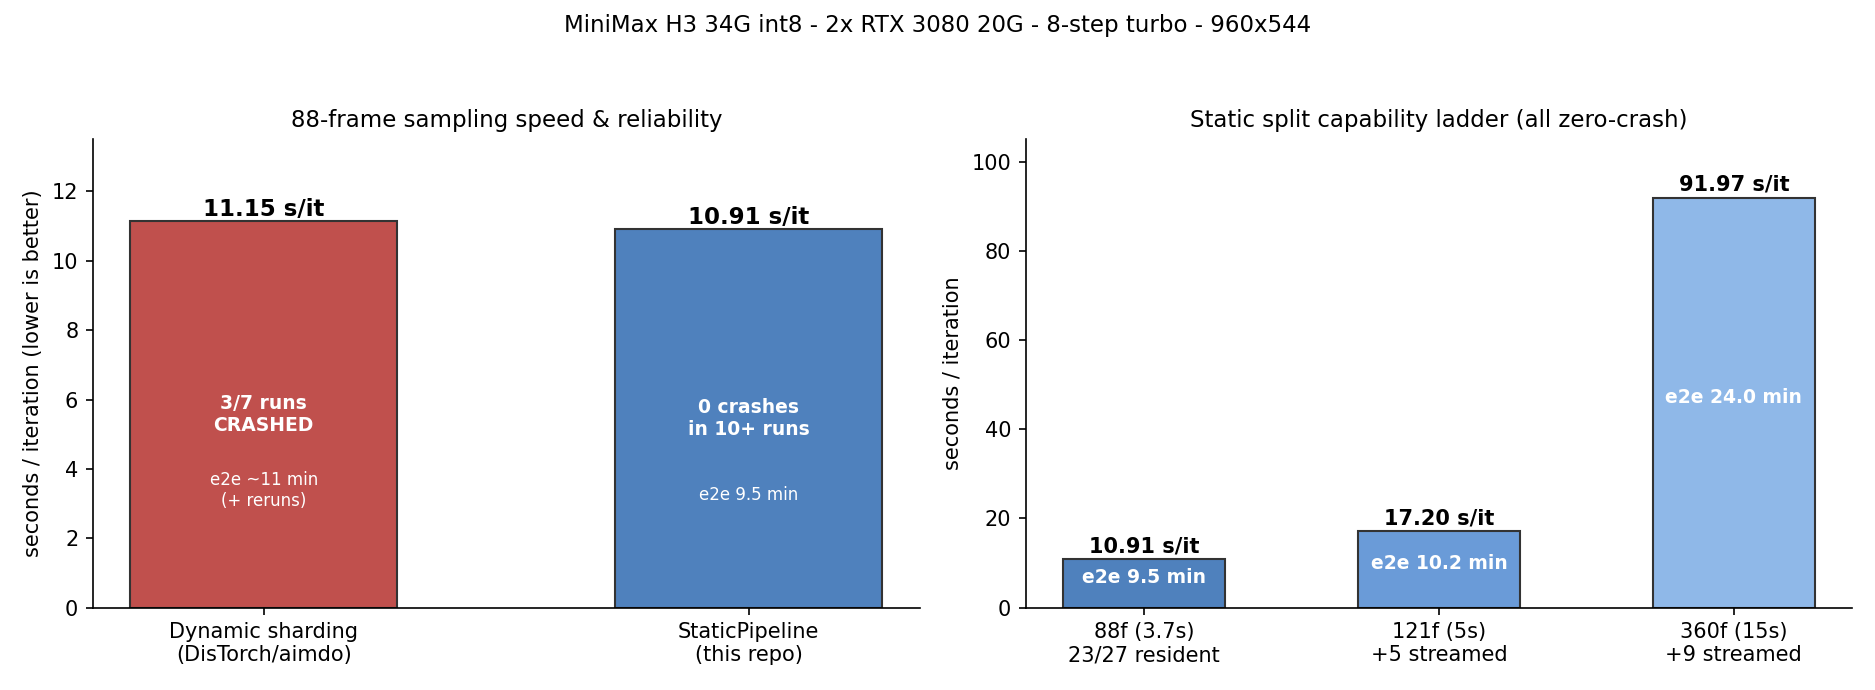
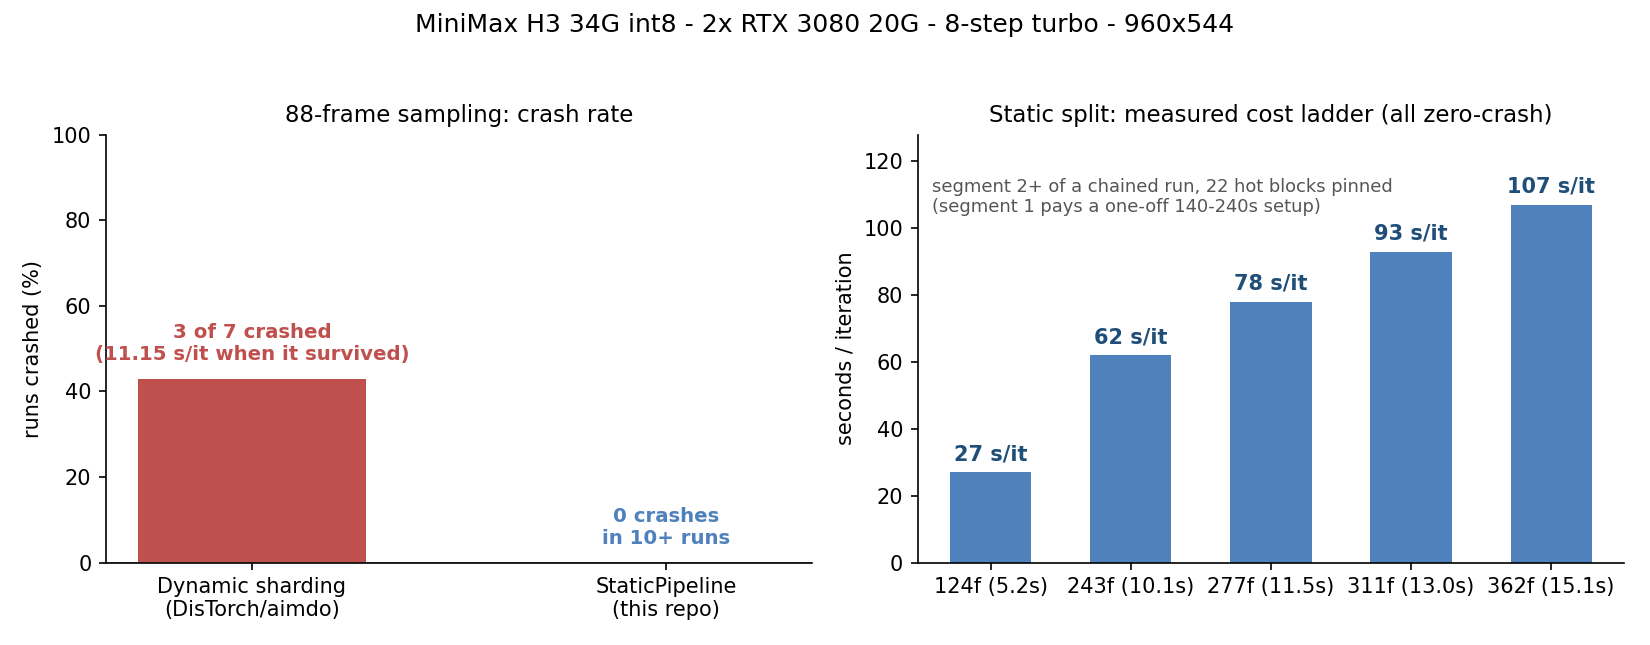
docs: replace stale benchmarks with current measured numbers
The profile table, results table and benchmark chart all carried numbers
measured before the two required env vars (MGPU_CPU_THRESHOLD_PERCENT=999,
PYTORCH_CUDA_ALLOC_CONF=expandable_segments:True) plus a LoRA cache-thrash
bug, and were superseded by later runs.

- profile table: short -> 73f 6.80 s/it; mid -> 124f ~27 / 243f ~62;
  long -> 277f ~78 / 311f ~93 / 362f ~107 s/it (chained segment 2+)
- segment tiers: 124/243/277/311/362f all pass with the current dev0
  budget + 22 pinned blocks; retire the old 226f/124f ceiling note
- add pinned-hot-block and LRU model cache notes (~5.7 min/clip saved)
- redraw assets/benchmark.png (crash rate + current cost ladder)

diff --git a/README.md b/README.md
@@ -36,15 +36,20 @@ The killer detail: `vbar_free_memory` in the aimdo ledger started returning **ne
 
 Weights don't grow with video length — activations do (~linear in tokens). For longer clips the node automatically switches profiles:
 
-| Profile | Frames | Layout | Measured |
+| Profile | Frames | Layout | Measured (segment 2+ of a chained run) |
 |---|---|---|---|
-| `short` | ≤88f | all-resident 23/27 | **10.91 s/it**, 8 steps, end-to-end 9.5 min |
-| `mid` | 110–259f | 22/23 resident + 5 CPU-streamed | **~27 s/it** at 124f (217–222 s sampling) |
-| `long` | ≥260f | 19/21 resident + 9 CPU-streamed | **~92 s/it** at 360f, 24 min for a 15 s clip |
+| `short` | ≤88f | all-resident 23/27 | 73f: **6.80 s/it** (0.093 s/it·frame, zero streamed blocks) |
+| `mid` | 110–259f | 22/23 resident + 5 CPU-streamed | 124f: **~27 s/it** · 243f: **~62 s/it** |
+| `long` | ≥260f | 19/21 resident + 9 CPU-streamed | 277f: **~78** · 311f: **~93** · 362f: **~107 s/it** |
 
 Measured cost curve on a directed chained run (steps=8 + turbo, 960×544, segment 2+):
 124f ≈ 27 s/it · 243f ≈ 62 · 277f ≈ 78 · 311f ≈ 93 · 362f ≈ 107. Segment 1 carries a one-off
 ~140–240 s cost (Triton compile + first LoRA move + static placement).
+
+Two knobs matter for long clips: **22 hot blocks stay pinned resident per card** (the rest can
+stream), and the loaded model survives across prompts (LRU model cache) — the second and later
+submissions on the same instance skip reload, Triton recompile and the first LoRA move, saving
+**~5.7 min per clip** at the same tier.
 
 (2× RTX 3080 20 GB, MiniMax H3 34 GB int8, 8-step turbo. CPU-streamed blocks are lossless packed-int8 copies; overhead ~1 s/step.)
 
@@ -106,7 +111,7 @@ UNETLoader → StaticPipelineSplit(frames=<your frame count>) → ... → sample
 ## Notes & limits
 
 - Requires the ComfyUI fork runtime this was developed against (DynamicVRAM/aimdo builds; tested on torch 2.10.0+cu130). Stock ComfyUI works too — the overrides simply no-op gracefully — but the target use case is packed-quantized DiTs that crash under dynamic sharding.
-- **Measured segment ceilings** (steps=1 probes for the roof, full runs to confirm): **single shot, no continuity pin: 226 frames** (243f OOM'd 5/5 probe runs); **chained segments: 124 frames** (validated end-to-end with 11×124f). A chained segment costs ~384 MiB more than the same length as a standalone shot — "the standalone probe passed" does not imply the chain will.
+- **Measured segment tiers** (current dev0 budget + 22 pinned blocks): chained segments passed every tier we tested — **124 / 243 / 277 / 311 / 362 frames**, validated end-to-end. Notes quoting a 226f single-shot / 124f chained ceiling came from the pre-pin dev0 budget and no longer apply. A chained segment still costs ~384 MiB more than the same length as a standalone shot — "the standalone probe passed" does not imply the chain will.
 - SageAttention allocates a **513.97 MiB fp32 temporary over the full k** (∝ token count, hence ∝ frames) — the largest single OOM trigger on long segments; intrinsic, unrelated to LoRA/streaming/VAE.
 - Three ways to free VRAM that we measured and **killed**: (a) rebalancing weights across cards — streamed blocks hop back onto their home card during their own forward, so the peak is conserved; (b) moving the audio VAE to cuda:1 — aimdo's vbar is only registered on device 0; (c) moving the text encoder to GPU — CUDA-context-level crash.
 - Keep the VAEs on the GPU: giving the video VAE ~3 GiB of headroom cut decode from 137 s → 46 s.

diff --git a/README_CN.md b/README_CN.md
@@ -36,15 +36,19 @@
 
 权重不随时长涨，激活值线性涨。节点按帧数自动切档：
 
-| 档位 | 帧数 | 布局 | 实测 |
+| 档位 | 帧数 | 布局 | 实测（导演台接力链 段 2+） |
 |---|---|---|---|
-| `short` | ≤88f | 23/27 全驻留 | **10.91 s/it**，8 步，端到端 9.5 分钟 |
-| `mid` | 110–259f | 22/23 驻留 + 5 块 CPU 流式 | 124f **~27 s/it**（采样 217–222 秒） |
-| `long` | ≥260f | 19/21 驻留 + 9 块 CPU 流式 | 360f **~92 s/it**，15 秒片 24 分钟 |
+| `short` | ≤88f | 23/27 全驻留 | 73f：**6.80 s/it**（0.093 s/it·帧，0 块流式） |
+| `mid` | 110–259f | 22/23 驻留 + 5 块 CPU 流式 | 124f：**~27 s/it** · 243f：**~62 s/it** |
+| `long` | ≥260f | 19/21 驻留 + 9 块 CPU 流式 | 277f：**~78** · 311f：**~93** · 362f：**~107 s/it** |
 
 导演台接力链实测成本曲线（steps=8 + turbo，960×544，段 2+）：
 124f ≈ 27 s/it · 243f ≈ 62 · 277f ≈ 78 · 311f ≈ 93 · 362f ≈ 107。段 1 有一次性的
 ~140–240 秒成本（Triton 编译 + LoRA 首次搬运 + 静态切分落位）。
+
+长片有两个关键旋钮：**每卡钉住 22 个热块常驻**（其余可流式），以及模型跨 prompt 常驻
+（LRU 模型缓存）——同一实例第二条起免去重载、Triton 重编译与 LoRA 首次搬运，
+**同档位每条省 ~5.7 分钟**。
 
 （CPU 流式块是无损的 int8 打包拷贝，开销 ~1 秒/步。）
 
@@ -102,7 +106,7 @@ UNETLoader → StaticPipelineSplit(frames=实际帧数) → ... → 采样器
 
 ## 边界
 
-- **段长天花板（实测）**：单段无 continuity pin 上限 **226f**（243f 连续 5 次探针全 OOM）；**链式接力上限 124f**（11×124f 已端到端验证）。链式一段比同长度单段多占 ~384 MiB——“单段探针通过”不等于链上能过。
+- **段长档位（实测）**：现行 dev0 预算 + 22 个钉住热块下，链式接力的 **124 / 243 / 277 / 311 / 362 帧逐档全过**（端到端验证）。此前"单段 226f / 链上 124f 天花板"的说法来自旧 dev0 预算，**已作废**。链式一段仍比同长度单段多占 ~384 MiB——"单段探针通过"不等于链上能过。
 - SageAttention 会对整条 k 做一次 **513.97 MiB 的 fp32 临时拷贝**（∝ token 数 = 帧数）——长段最大的单笔 OOM 触发点，属固有成本，与 LoRA/流式块/VAE 无关。
 - 三条腾显存的路实测**全部判死**：① 卡间挪权重（流式块在自己那次 forward 期间会临时落回原卡，峰值守恒）② 音频 VAE 搬 cuda:1（aimdo 的 vbar 只登记 device 0）③ TE 搬上 GPU（CUDA context 级崩溃）。
 - VAE 尽量留在 GPU：给视频 VAE 腾出 ~3 GiB，decode 从 137 秒降到 46 秒。
